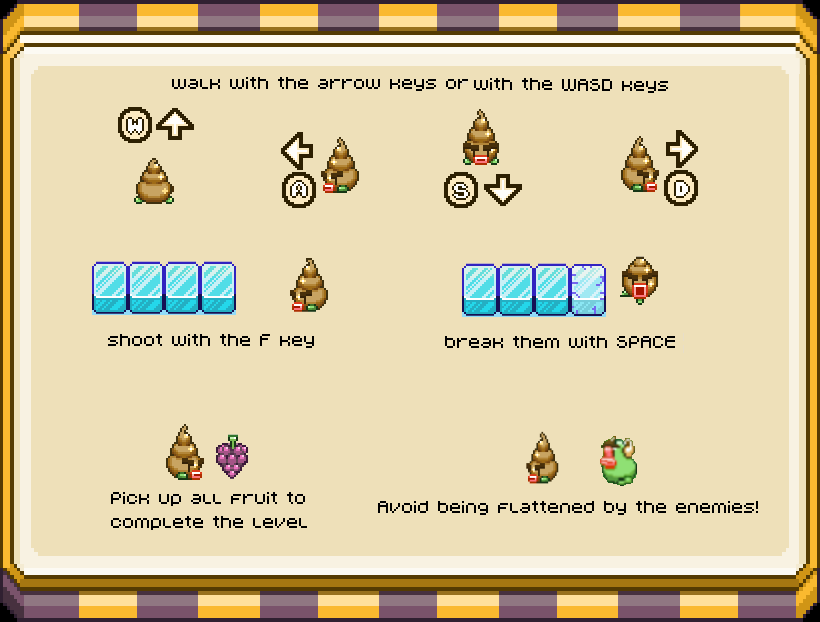
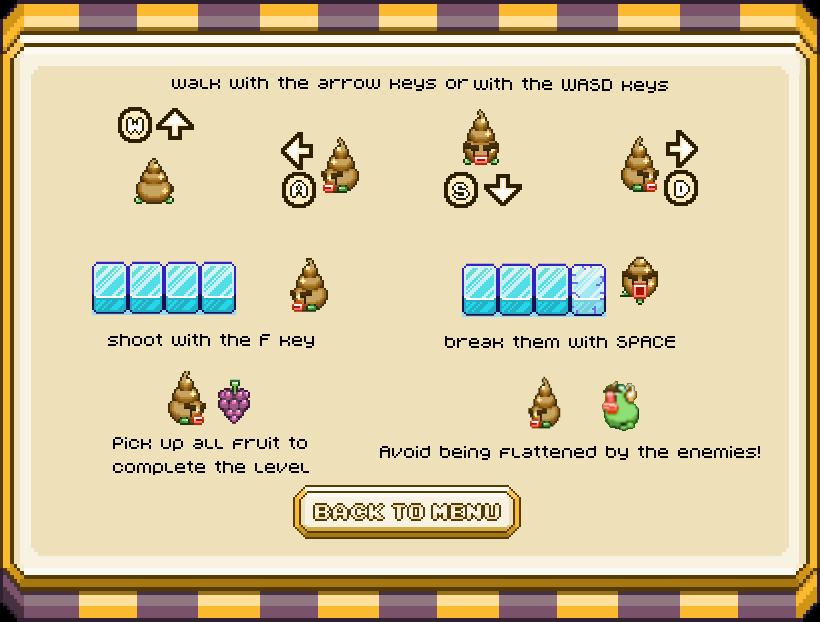
Finished the help page

Changed region(s): [[0.122, 0.5804, 0.9146, 0.8859]]

diff --git a/main.py b/main.py
@@ -1174,10 +1174,10 @@ while True:
                 if play_button_rect.collidepoint(event.pos):
                     active_screen = "levels"
                 elif help_button_rect.collidepoint(event.pos):
-                    pass
+                    active_screen = "help"
                 elif credits_button_rect.collidepoint(event.pos):
-                    pass
-            
+                    active_screen = "credits"
+
             elif active_screen == "levels":
                 if lv1_button_rect.collidepoint(event.pos):
                     active_screen = "gaming"
